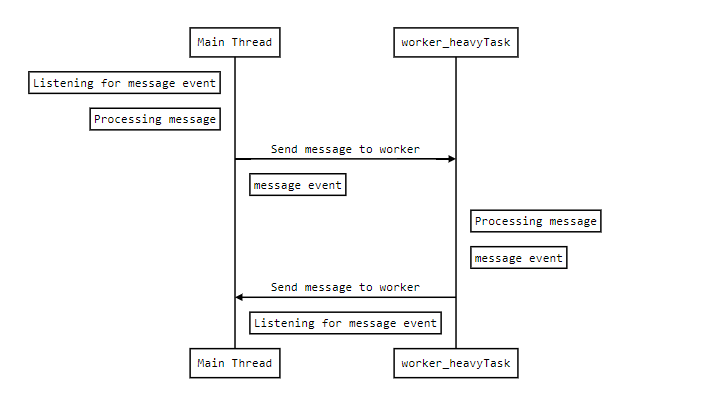
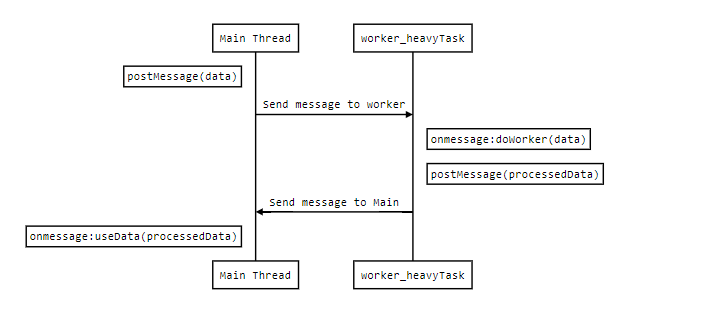
doc : 更新文件

Changed region(s): [[0.031, 0.0568, 0.8676, 0.9369]]

diff --git a/README.md b/README.md
@@ -1,8 +1,10 @@
 # Web Worker
 
-![Event model for web workers](image.png)
+![alt text](image.png)
 
-由於 Javascript 和 UI 事件在單一執行緒中運行，因此如果 js 方法過於肥大執行時間較長，UI 將無法更新並卡頓。
+JavaScript 通常在作業系統的 Main Thread 執行，但若把程式碼放在 Web Workers 就可另闢戰場-Worker Thread，兩條線互不影響，讓 JavaScript 在背景執行，並且兩線可由訊息溝通-使用 postMessage 發送訊息、onmessage 接收訊息。
+
+通常我們會將需要長時間運算且不含 Window 或 DOM Element 操作的程式碼放在 Web Workers，好處是不阻塞 Main Thread 而讓速度變快。
 
 ## 本範例的 Event model for web workers
 
